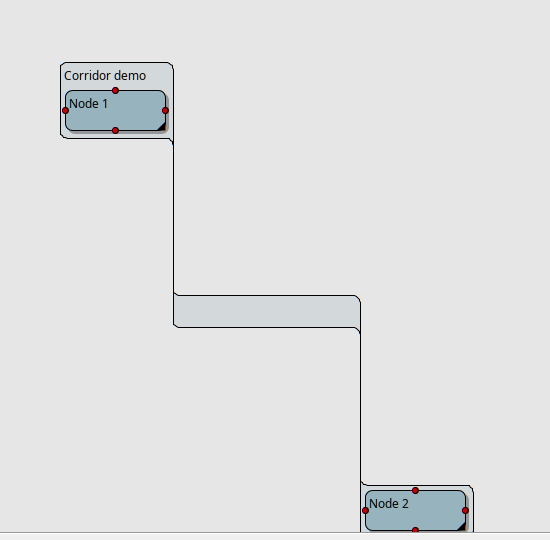
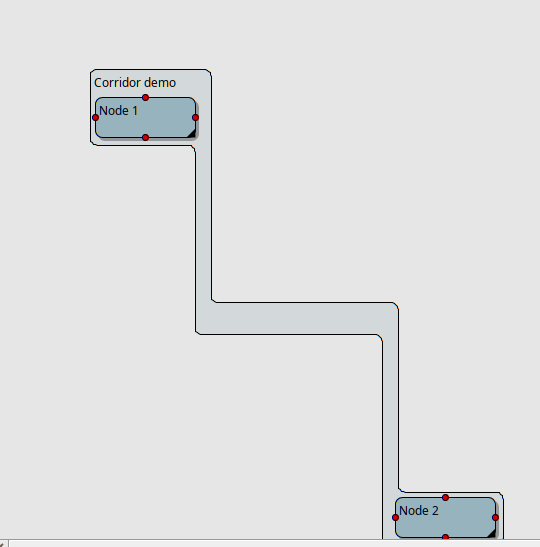
Give the corridor's connecting run real width, not overlapping lines (#38)
Where a corridor meets a real child, the top edge's drop and the bottom
edge's drop used to land on the exact same vertical line - drawn as
one line along their shared stretch, not as a passage with any width
of its own. Offset the two steps a few px apart (whichever ordering
keeps top<bottom valid at every x) so that connecting run reads as an
actual band along its whole length.

Changed region(s): [[0.3556, 0.5333, 0.9481, 1.0], [0.0889, 0.1185, 0.3852, 0.5926], [0.0, 0.9778, 0.0296, 1.0]]

diff --git a/src/plugins/GraphEditor/GroupBoundary.cpp b/src/plugins/GraphEditor/GroupBoundary.cpp
@@ -103,12 +103,58 @@ vector<BPoint> ComputeGroupBoundary(const vector<BRect> &rects, float labelSpace
 	// corner, so a corridor much narrower than twice the usual corner
 	// radius rounds almost its whole height away at both ends and reads
 	// as a thin line instead of a band.
-	const float	kCorridorHeight	= 32;
+	const float		kCorridorHeight	= 32;
+	vector<bool>	isCorridor(n,false);
 	for (int32 i=0; i<n; i++) {
 		if (topY[i] > bottomY[i]) {
+			isCorridor[i]	= true;
 			float	center	= (topY[i]+bottomY[i])/2;
 			topY[i]		= center-kCorridorHeight/2;
 			bottomY[i]	= center+kCorridorHeight/2;
+		}
+	}
+
+	// Where the corridor meets a real child, both topY and bottomY step at
+	// the very same x (the child's own edge) - the top edge's drop and the
+	// bottom edge's drop land on the exact same vertical line, which draws
+	// as one line, not as a corridor with any width of its own along that
+	// drop (this is what "just two lines lying on top of each other" -
+	// your description - actually is). The two steps don't overlap with
+	// either the child's own rect or the corridor's flat span, though (the
+	// coincident stretch is the empty run between them), so nudging them
+	// a few px apart - one edge steps a little early, the other a little
+	// late - costs nothing and gives that whole connecting run real,
+	// recognizable width instead of a single line. Ordinary transitions
+	// (not a corridor boundary) are untouched.
+	//
+	// Which edge goes early matters: stepping the wrong one re-creates
+	// the exact inversion this file exists to avoid, since for the x
+	// range between the two steps, one side already carries its new
+	// value while the other still carries its old one - that pairing
+	// must itself satisfy top<bottom, and only one of the two pairings
+	// (new top vs. old bottom, or old top vs. new bottom) does. Skip the
+	// padding on the rare transition where neither does (columns too
+	// narrow) - falling back to the coincident-but-valid single line
+	// beats stepping into a fresh bowtie.
+	const float		kCorridorSidePadding	= 8;
+	vector<float>	topStepX(n), bottomStepX(n);
+	for (int32 k=0; k<n; k++) {
+		topStepX[k]		= xs[k];
+		bottomStepX[k]	= xs[k];
+	}
+	for (int32 k=1; k<n; k++) {
+		if ((isCorridor[k] != isCorridor[k-1])
+				&& (topY[k] != topY[k-1]) && (bottomY[k] != bottomY[k-1])) {
+			float	leftRoom	= xs[k]-xs[k-1];
+			float	rightRoom	= xs[k+1]-xs[k];
+			float	pad			= std::min(kCorridorSidePadding,std::min(leftRoom,rightRoom)/2);
+			if (topY[k] < bottomY[k-1]) {
+				topStepX[k]		= xs[k]-pad;
+				bottomStepX[k]	= xs[k]+pad;
+			} else if (topY[k-1] < bottomY[k]) {
+				bottomStepX[k]	= xs[k]-pad;
+				topStepX[k]		= xs[k]+pad;
+			}
 		}
 	}
 
@@ -117,8 +163,8 @@ vector<BPoint> ComputeGroupBoundary(const vector<BRect> &rects, float labelSpace
 	float	prevTop	= topY[0];
 	for (int32 i=1; i<n; i++) {
 		if (topY[i] != prevTop) {
-			PushIfNew(polygon,BPoint(xs[i],prevTop));
-			polygon.push_back(BPoint(xs[i],topY[i]));
+			PushIfNew(polygon,BPoint(topStepX[i],prevTop));
+			polygon.push_back(BPoint(topStepX[i],topY[i]));
 			prevTop	= topY[i];
 		}
 	}
@@ -129,8 +175,8 @@ vector<BPoint> ComputeGroupBoundary(const vector<BRect> &rects, float labelSpace
 	PushIfNew(polygon,BPoint(xs[n],prevBottom));
 	for (int32 i=n-2; i>=0; i--) {
 		if (bottomY[i] != prevBottom) {
-			PushIfNew(polygon,BPoint(xs[i+1],prevBottom));
-			polygon.push_back(BPoint(xs[i+1],bottomY[i]));
+			PushIfNew(polygon,BPoint(bottomStepX[i+1],prevBottom));
+			polygon.push_back(BPoint(bottomStepX[i+1],bottomY[i]));
 			prevBottom	= bottomY[i];
 		}
 	}
